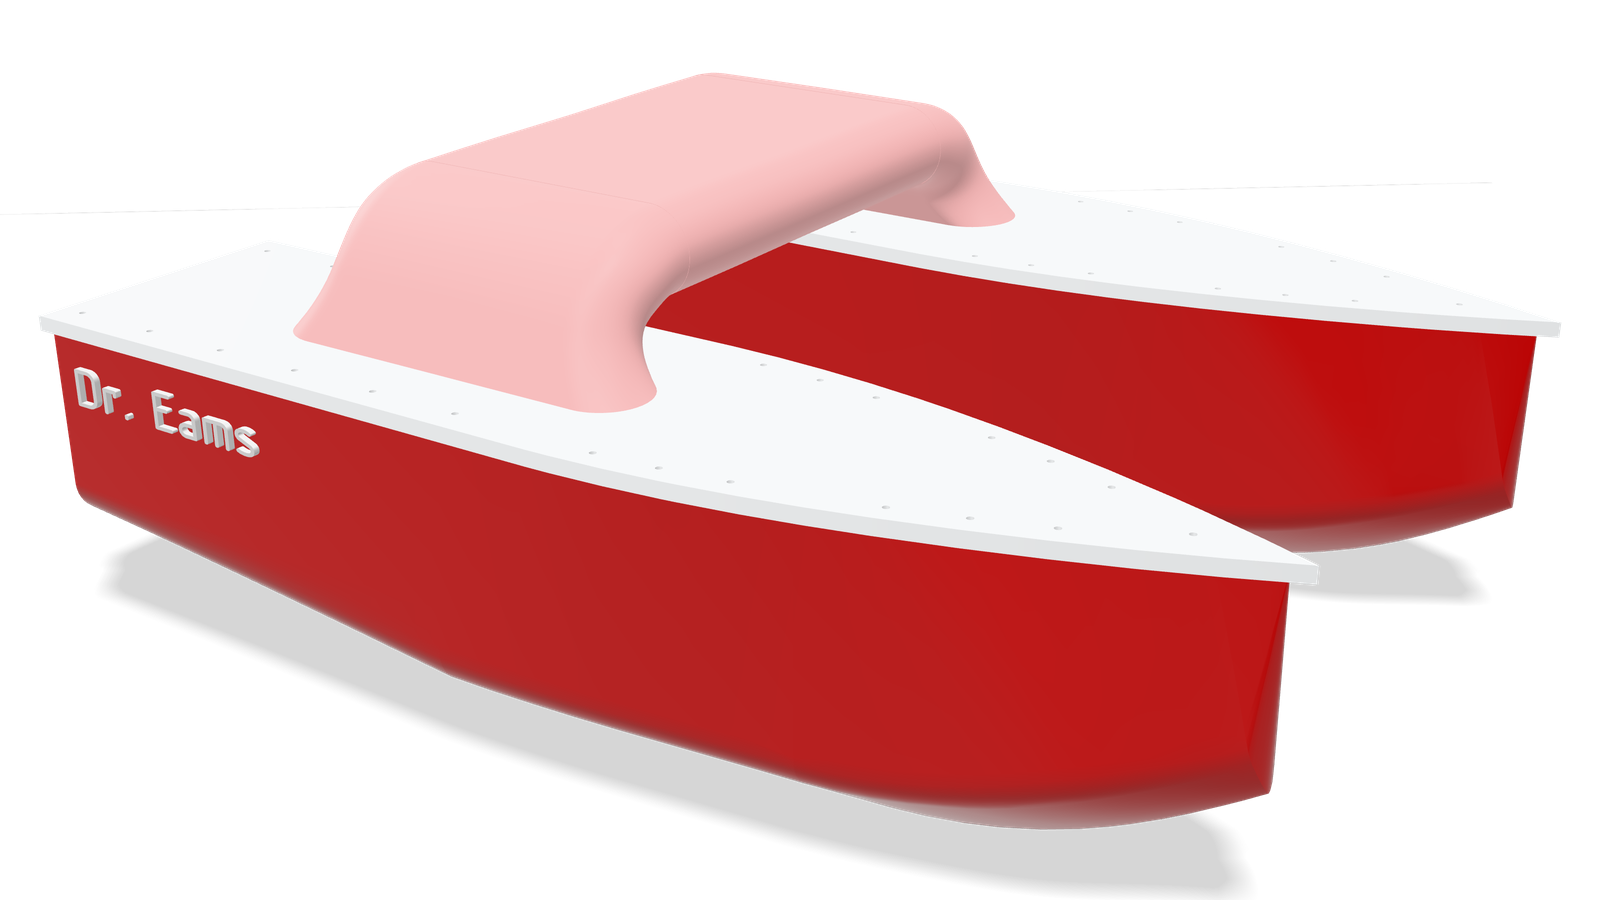
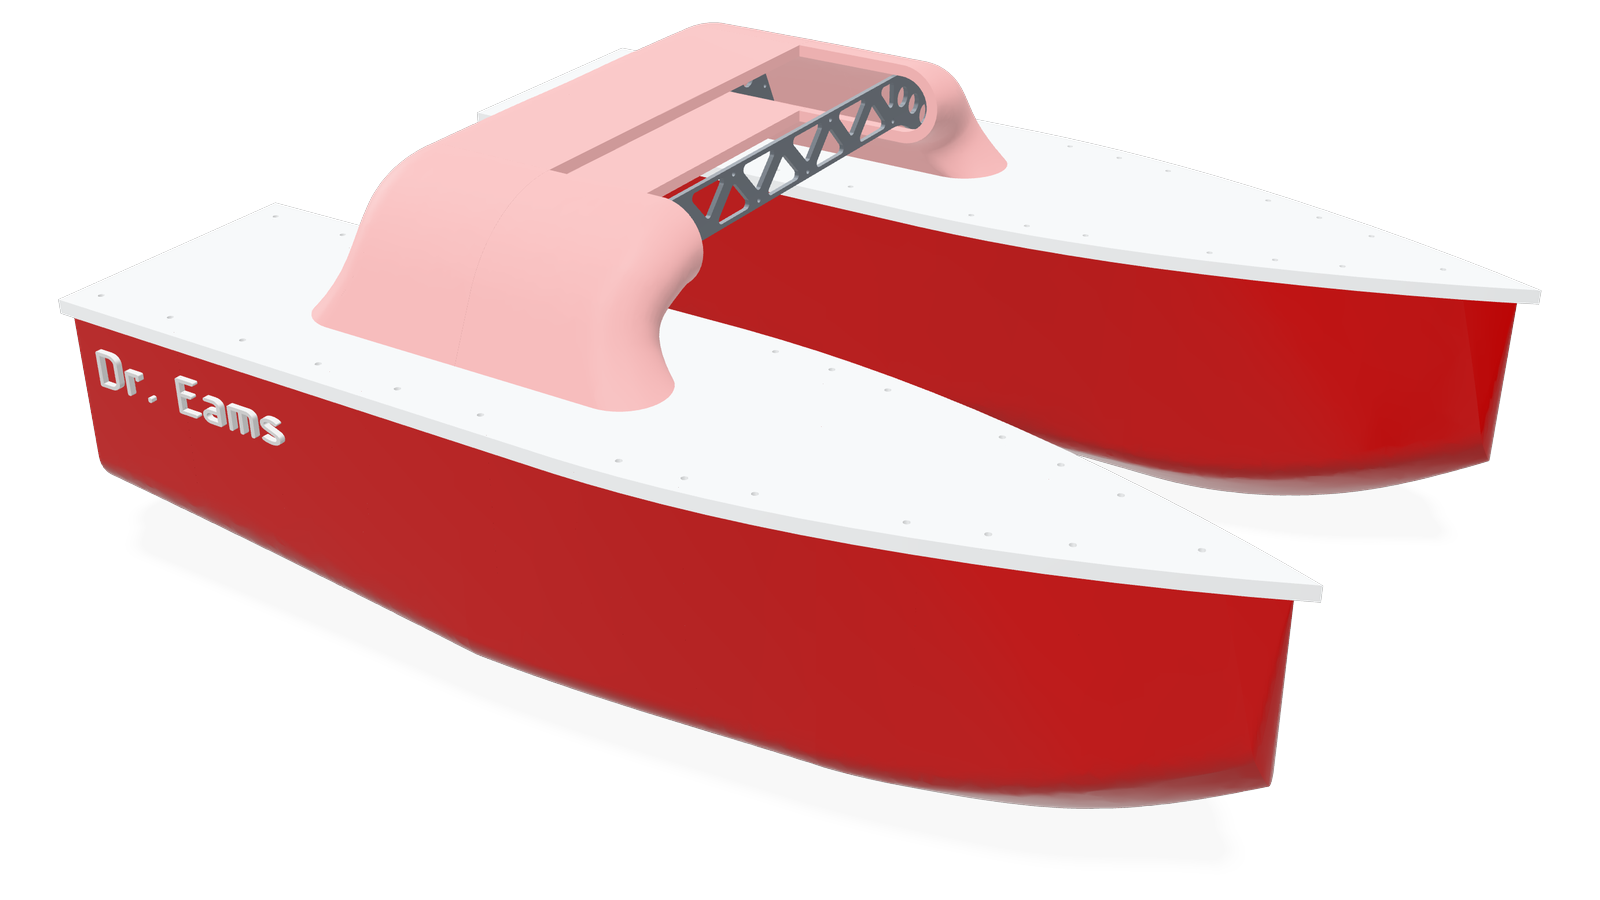
feat(website): publish the 27 Nov 3D boat, with a new poster
The Boat page's 3D boat now loads the 27 Nov model. That export leaves out the
bridge's front-middle piece (a hidden body), so the bridge card says the middle of
the front half is left off to show the trusses; a full export will replace it.
New poster rendered from the model with the viewer's own lighting, stamped
boat-explorer.js, and a line in this week's update.

Claude-Session: https://claude.ai/code/session_01MmpaibT2mUXrL1Wf9oaEZE

diff --git a/website/boat-explorer.js b/website/boat-explorer.js
@@ -64,7 +64,7 @@ const PARTS = {
       'The look comes from commercial survey catamarans such as the EvoLogics Sonobot.',
       'A hollow shell with 10 mm walls. Each end stands on a hull’s deck plate.',
       'Two aluminum trusses inside it carry the loads that hold the hulls together, so the printed shell only has to cover them.',
-      'It splits into front and back halves that slide over the trusses from either end and meet in the middle.',
+      'It splits into front and back halves that slide over the trusses from either end and meet in the middle. The middle of the front half is left off this model, so you can see the trusses inside.',
       'It sits toward the stern, from 22 mm ahead of the middle of the hulls to 308 mm behind it.',
     ],
     history: [['V1', 'A clear acrylic deck tied the hulls together and carried the winch.'], ['V3', 'A raised arch with two aluminum trusses inside.']] },

diff --git a/website/boat.html b/website/boat.html
@@ -230,6 +230,6 @@
 
 <div id="footer"><noscript><footer class="footer"><div class="wrap"><p>Contact: <a href="mailto:DREAMSboatproject@gmail.com">DREAMSboatproject@gmail.com</a>&nbsp;· <a href="mailto:tran.kyl@northeastern.edu">Kyle Tran&nbsp;· tran.kyl@northeastern.edu</a>&nbsp;· <a href="mailto:hong.matt@northeastern.edu">Matthew Hong&nbsp;· hong.matt@northeastern.edu</a></p></div></footer></noscript></div>
 <script src="site.js?v=3a238039"></script>
-<script type="module" src="boat-explorer.js?v=c258bc85"></script>
+<script type="module" src="boat-explorer.js?v=418b5307"></script>
 </body>
 </html>

diff --git a/website/UPDATES.md b/website/UPDATES.md
@@ -32,6 +32,7 @@ This week we designed the aluminum trusses that hold the boat's two hulls togeth
 ![Stress in the truss under the worst loads we expect: darker blue is higher, and the highest, 66 MPa, is about a quarter of what it takes to bend this aluminum for good](img/upd-2026-11-27-stress-1600.jpg)
 
 - Designed the two aluminum trusses inside the bridge, about 310 g each and able to take about four times the worst loads we expect, the brackets in the hull rims they bolt to, and the 14 bolts that hold the printed bridge on. The bridge will split into front and back halves that slide over the trusses, with a 2 mm gap all round.
+- The 3D boat on the website's Boat page now comes from the latest CAD, with the two trusses inside the bridge and the brackets in the starboard hull's rim. Pull it apart to see them.
 
 ## Week ending Nov 6, 2026
 
